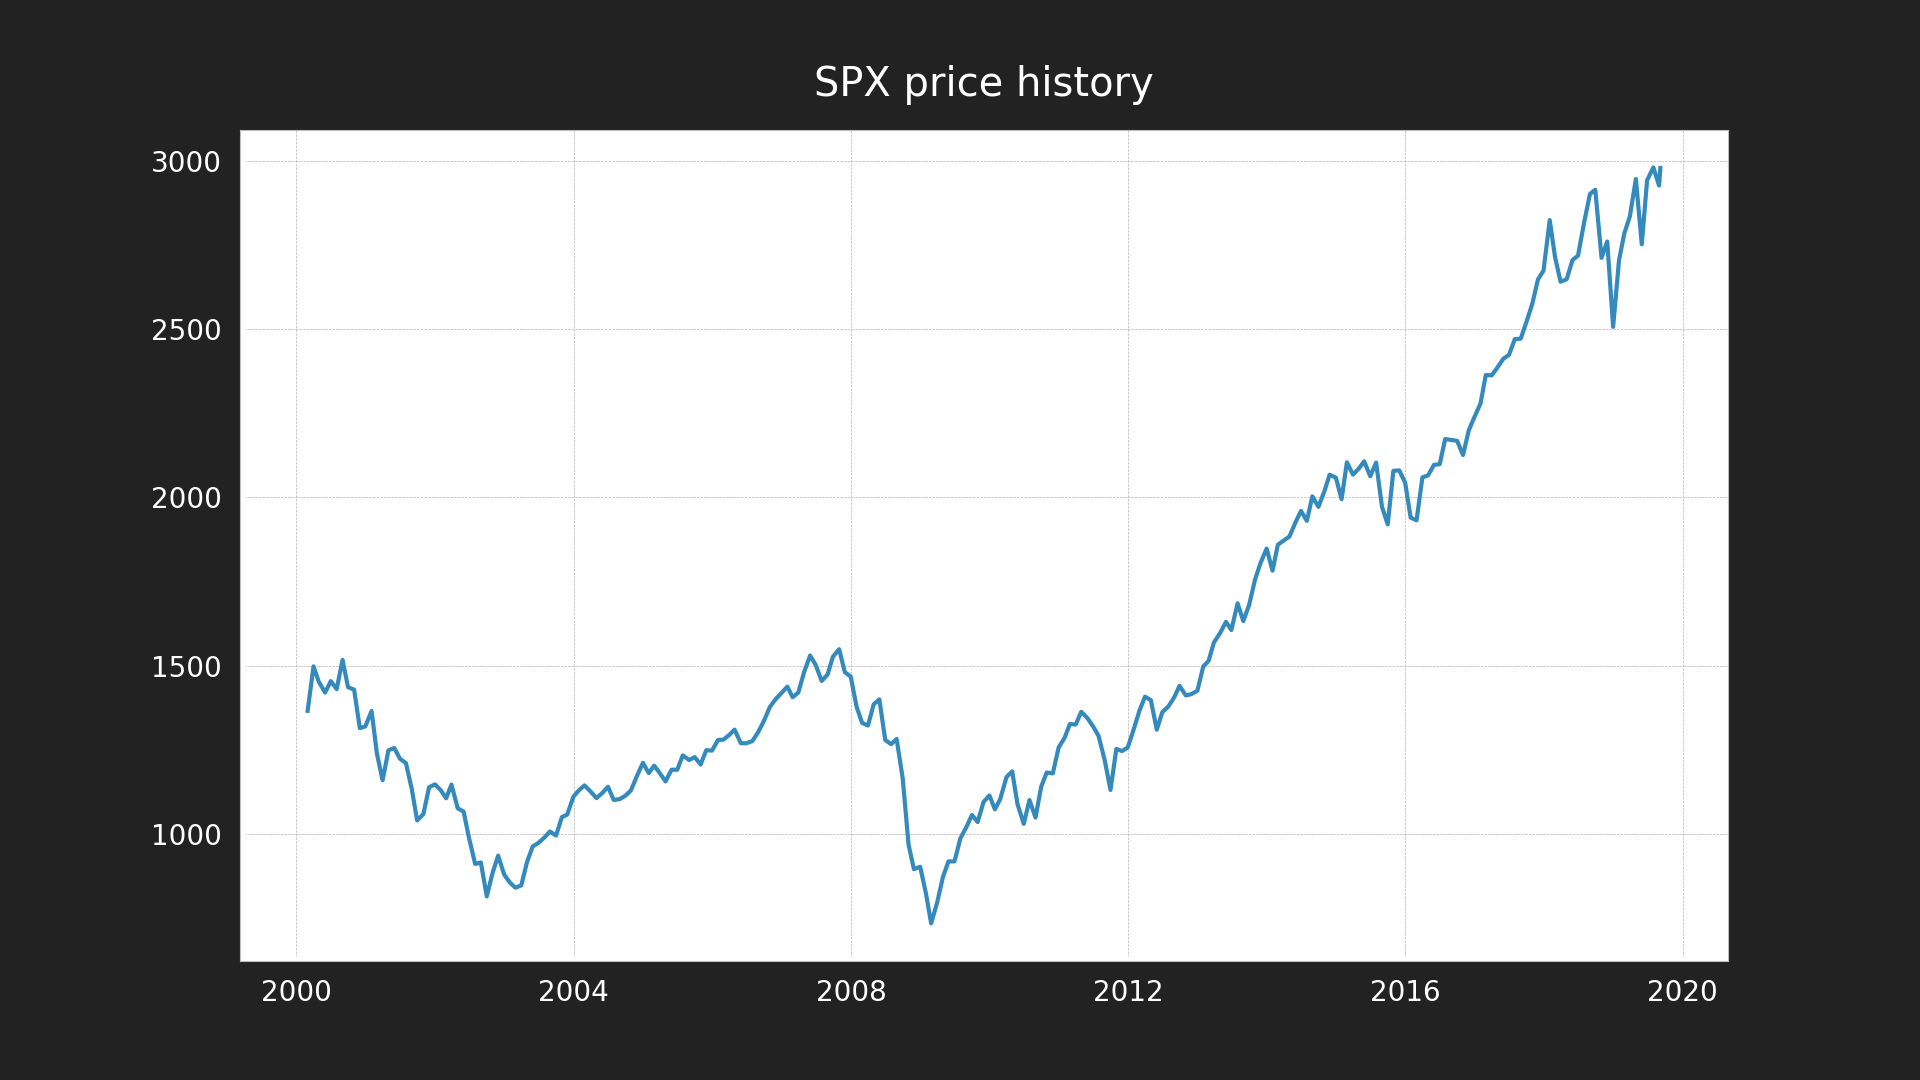
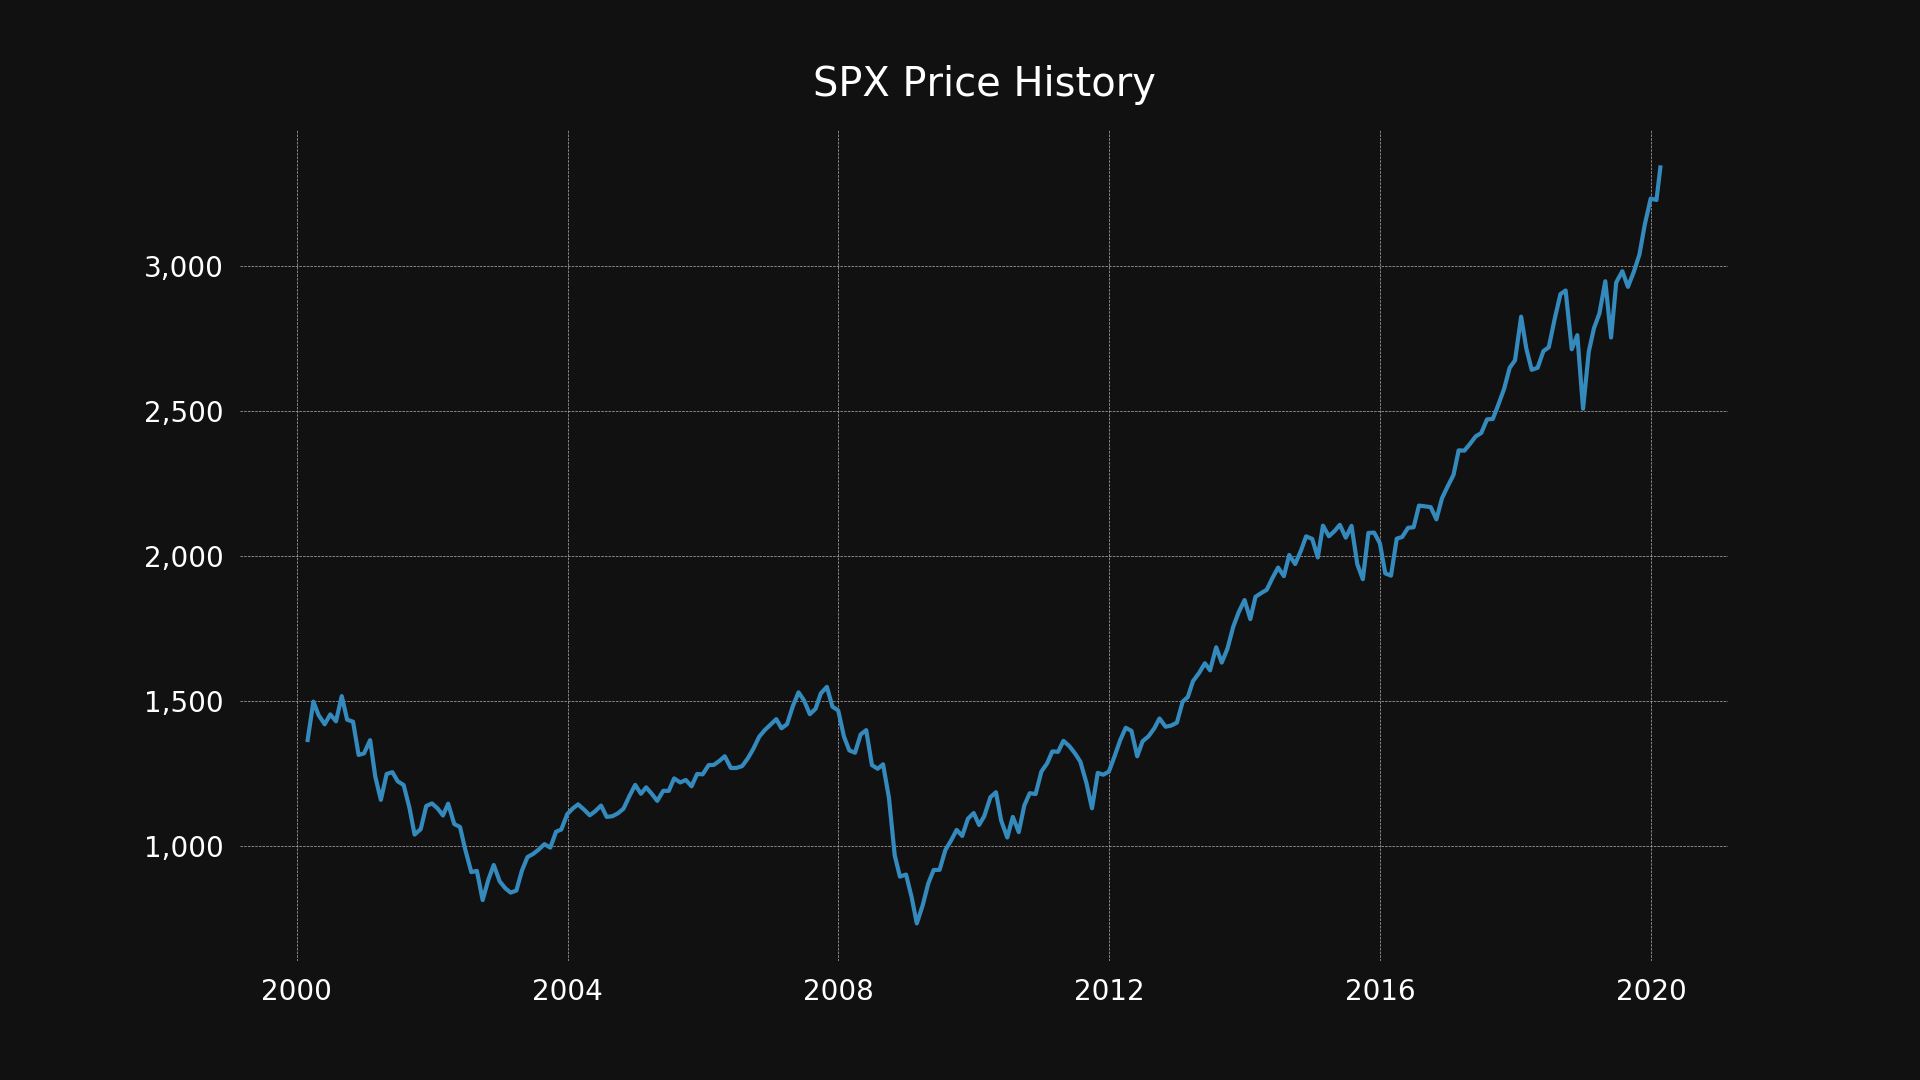
Change plot style

diff --git a/plot_style.py b/plot_style.py
@@ -1,4 +1,5 @@
 import matplotlib.pyplot as plt
+import matplotlib.ticker as tkr
 import matplotlib.style as style
 
 
@@ -14,7 +15,7 @@ def apply_common_styles():
     plt.rcParams['axes.facecolor'] = '#222222'
     plt.rcParams['axes.labelcolor'] = '#ffffff'
 
-    plt.rcParams['savefig.facecolor'] = '#222222'
+    plt.rcParams['savefig.facecolor'] = '#111111'
 
     plt.rcParams['xtick.color'] = '#ffffff'
     plt.rcParams['xtick.major.pad'] = 12
@@ -28,8 +29,17 @@ def apply_common_styles():
 
     plt.rcParams['patch.force_edgecolor'] = True
 
+    plt.rcParams['axes.spines.left'] = False
+    plt.rcParams['axes.spines.right'] = False
+    plt.rcParams['axes.spines.top'] = False
+    plt.rcParams['axes.spines.bottom'] = False
+
+    # gca means "get current axes"
     ax = plt.gca()
-    ax.set_facecolor('#ffffff')
+    ax.set_facecolor('#111111')
+    ax.tick_params(axis=u'both', which=u'both', length=0)
+    ax.yaxis.set_major_formatter(
+        tkr.FuncFormatter(lambda x, p: format(int(x), ',')))
 
 
 def line():
@@ -40,6 +50,7 @@ def line():
 def hist():
     style.use('default')
     apply_common_styles()
+
 
 def scatter():
     style.use('bmh')

diff --git a/history.py b/history.py
@@ -6,7 +6,7 @@ import alpha_vantage
 import plot_style
 
 
-def show_history(symbol, interval='MONTHLY'):
+def show_history(symbol: str, interval='MONTHLY'):
     data = alpha_vantage.get_stock_price_history(
         symbol,
         interval,
@@ -14,11 +14,11 @@ def show_history(symbol, interval='MONTHLY'):
     )
 
     plot_style.line()
-    plt.title(f'{symbol} price history')
+    plt.title(f'{symbol.upper()} Price History')
     plt.plot(list(data.keys()), list(data.values()))
 
     pathlib.Path('img/history').mkdir(parents=True, exist_ok=True)
-    plt.savefig(f'img/history/{symbol}.png')
+    plt.savefig(f'img/history/{symbol.lower()}.png')
     plt.close()
 
 
